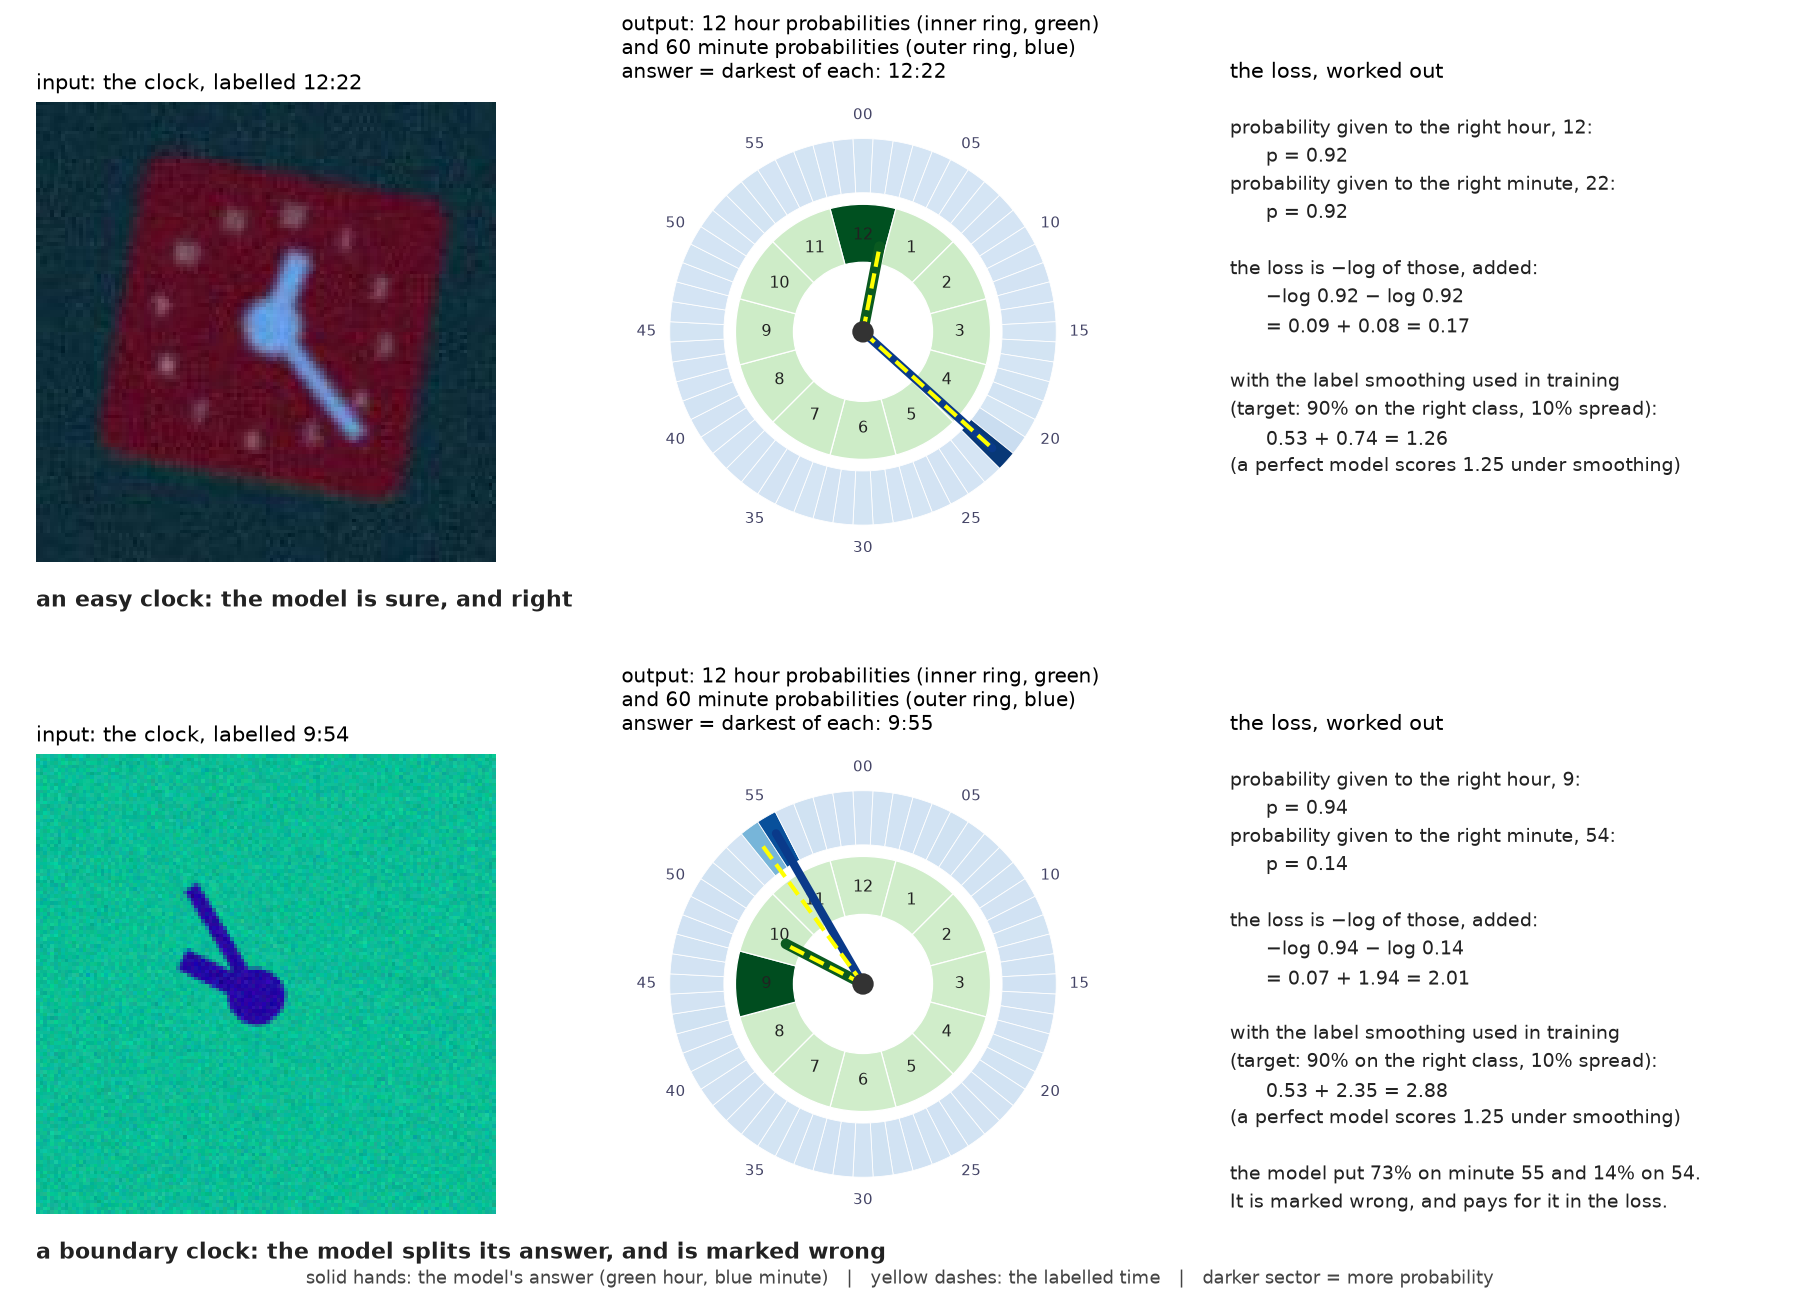
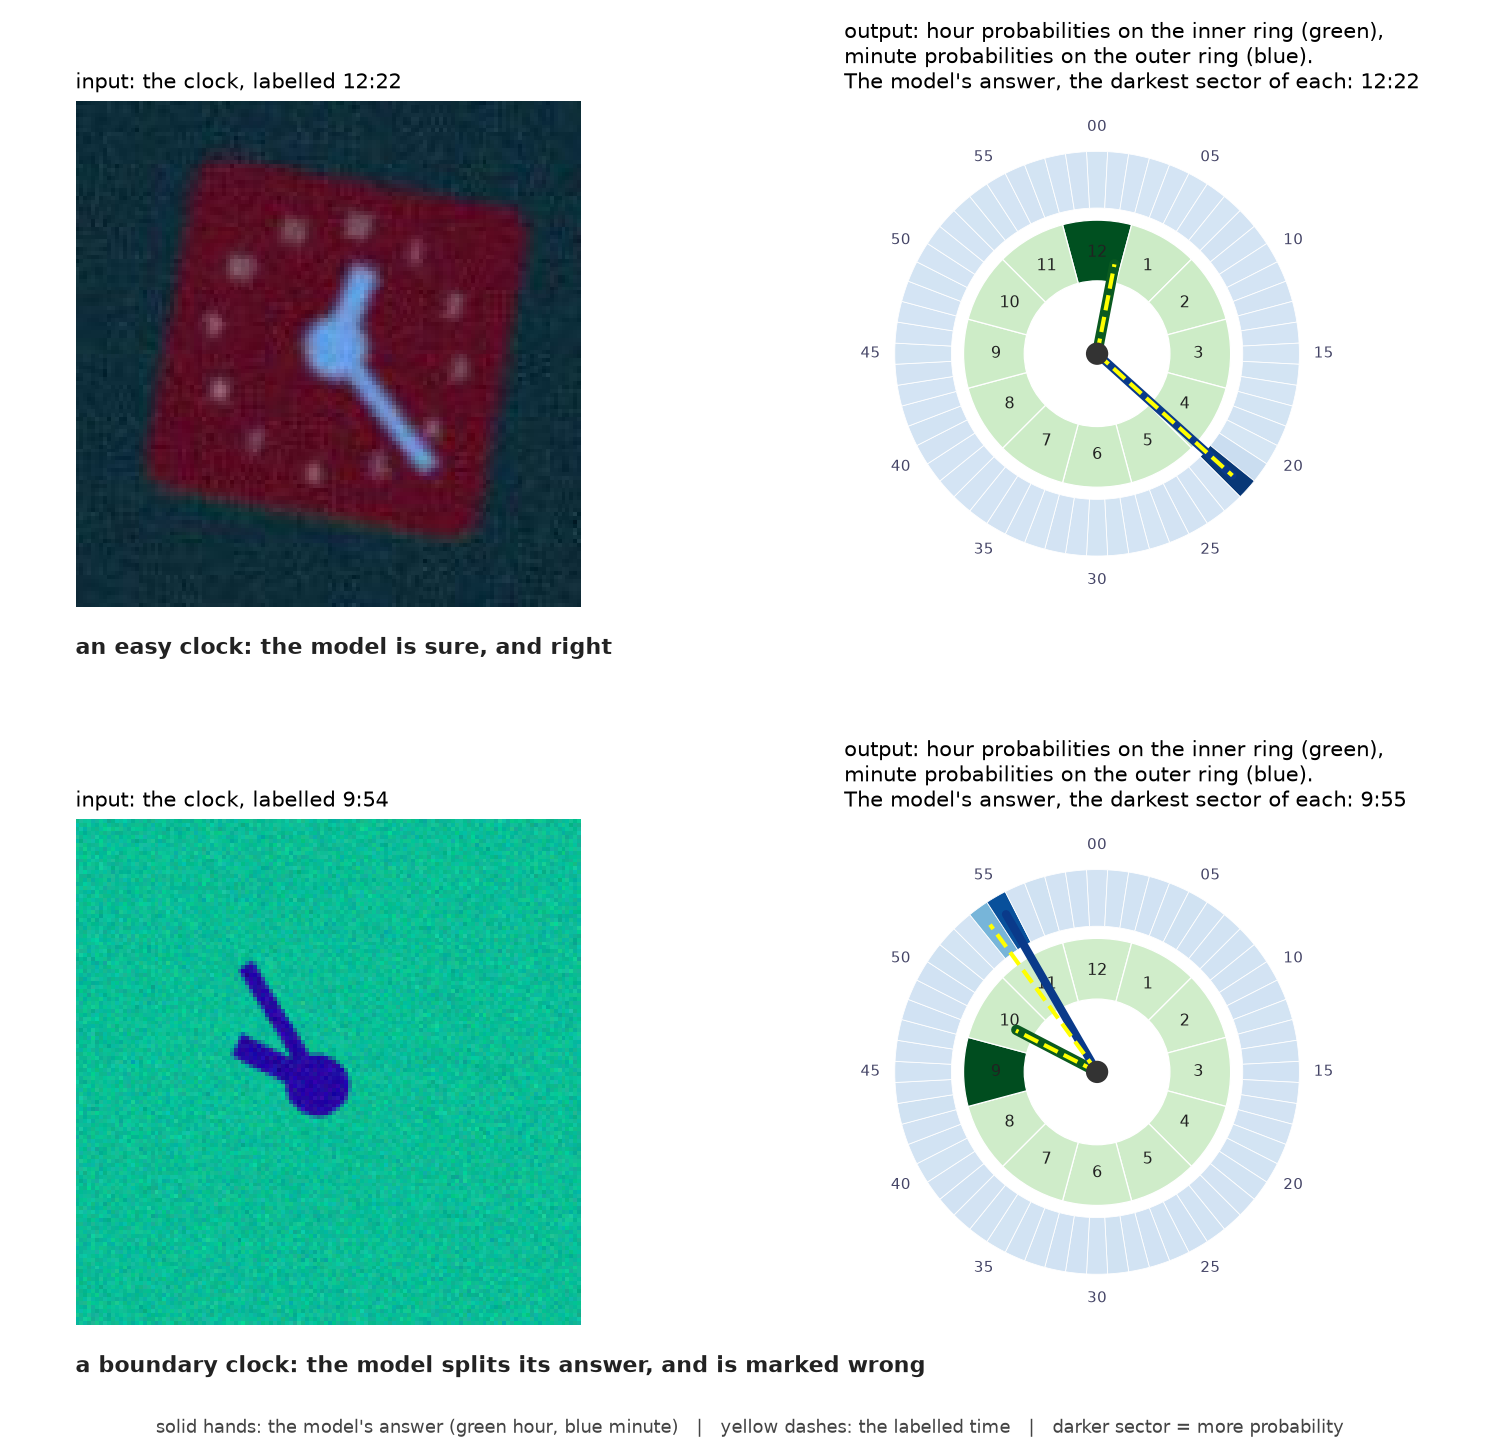
Part 2: bar-chart outputs, dial without arithmetic, toy token example in maths, renumbered

diff --git a/_posts/2026-09-15-clocks-part-2-models.md b/_posts/2026-09-15-clocks-part-2-models.md
@@ -65,16 +65,16 @@ Here is what that means as literal numbers, for one held-out clock. The
 image is stored as three grids of 128 by 128 values, one for red, one for
 green, one for blue, and a row of the actual values is printed under them.
 Those 49,152 numbers are what the model receives. What it returns is
-printed below the model: twelve numbers and sixty numbers. Its answer is
-the largest of each list (Figure 2.2).
+charted below the model: twelve numbers as twelve bars, sixty numbers as
+sixty bars. Its answer is the tallest bar of each chart (Figure 2.2).
 
 ![The input as a clock and its three colour channels, the model, and the output as the twelve and sixty numbers it returns](/assets/clocks/io_numbers.png){: .no-invert}
 
-**Figure 2.2.** The input as a clock and its three colour channels, the model, and the output as the twelve and sixty numbers it returns.
+**Figure 2.2.** The input as a clock and its three colour channels, the model, and its two outputs as bar charts: twelve hour probabilities and sixty minute probabilities. Dark blue is the model's minute, amber the labelled one.
 {: .figcap}
 
-The model put 0.94 on hour 9, and on the minute list 0.73 on 55 and 0.14
-on 54. Its answer is 9:55. The label, the yellow cell, is 9:54. So this
+The model put 0.94 on hour 9, and on the minute chart 0.73 on 55 and 0.14
+on 54. Its answer is 9:55. The label, the amber bar, is 9:54. So this
 clock counts as a miss, by one minute. Hold on to this example; the next
 figure draws the same two lists on a dial, and the section after works out
 what the loss charges for it.
@@ -84,21 +84,17 @@ Below, for an easy clock and then for the clock above, the inner ring is
 the hour list, one sector per hour, shaded darker the more probability the
 model put there. The outer ring is the minute
 list, one sector per minute. The model's answer is drawn as solid hands,
-the labelled time as yellow dashes, and the loss is worked out on the
-right from two numbers: how much probability the model gave the right
-hour, and how much it gave the right minute (Figure 2.3).
+the labelled time as yellow dashes (Figure 2.3).
 
 ![Two clocks through the trained ViT: the input, its output drawn as a probability dial, and the loss worked out](/assets/clocks/objective_dial.png){: .no-invert}
 
-**Figure 2.3.** Two clocks through the trained ViT: the input, its output drawn as a probability dial, and the loss worked out.
+**Figure 2.3.** Two clocks through the trained ViT: the input, and its output drawn as a probability dial. Inner ring: the twelve hour probabilities. Outer ring: the sixty minute probabilities. Solid hands: the model's answer. Yellow dashes: the label.
 {: .figcap}
 
 The top clock is the easy case. One dark green sector at 12, one dark blue
 sector at 22, hands on top of the dashes. The model gave 92% to the right
-hour and 92% to the right minute, so the loss is small: −log 0.92 twice,
-0.17 in total; 1.26 with the label smoothing used in training, whose floor
-is 1.25 (the loss section explains the smoothing). That is what a solved
-clock looks like.
+hour and 92% to the right minute. That is what a solved clock looks like,
+and the loss section works out what it scores.
 
 The bottom clock is the boundary case that Part 3 is about. The hour ring
 is as certain as before. But the minute ring has two shaded sectors: a
@@ -106,14 +102,12 @@ dark one at 55 and a lighter one at 54. The model put 73% on 55 and 14%
 on 54, and the label says 54. Look at the input: the minute hand is
 between the two marks, nearer 55. The model isn't confused about the
 clock. It is reporting, in probabilities, exactly where the hand is. It's
-marked wrong all the same, and the loss says so: −log 0.14 is 1.94 on the
-minute head alone, and the total is 2.88 with smoothing, more than twice
-the floor.
+marked wrong all the same, and the loss section shows what that costs.
 
-That is what "the loss" means for the rest of this post: for each image,
-how far the model's two probability lists are from the target lists, added
-up. Training is the process of nudging the encoder's weights so that
-number, averaged over the batch, goes down.
+The loss, which comes next, is a single number that says how far those
+two probability lists are from the labelled answer. Training is the
+process of nudging the encoder's weights so that number, averaged over the
+batch, goes down.
 
 ## The two families
 
@@ -222,23 +216,35 @@ $$x_i$$:
 
 $$z_i = E\,x_i + \mathrm{pos}_i, \qquad E \in \mathbb{R}^{192 \times 192}.$$
 
-What does step 3 actually compute? Here it is drawn out, with the real
-numbers from the trained vit_tiny for the minute-hand patch above (Figure 2.6):
+What does step 3 actually compute? Shrink it to a toy you can check by
+hand: a patch of four grey pixels instead of 192 colour values, and a
+token of three numbers instead of 192. The pixel values, scaled to
+$$[-1, 1]$$, are
 
-![The token calculation drawn as a matrix-vector product: the 192 × 192 learned matrix E with its first row highlighted, the 192 pixel values, the 192 offsets, and the resulting token](/assets/clocks/token_calc.png){: .no-invert}
+$$x = \begin{pmatrix} 0.9 \\ 0.8 \\ -0.7 \\ -0.9 \end{pmatrix}
+\quad\text{(top-left, top-right, bottom-left, bottom-right: light, light, dark, dark).}$$
 
-**Figure 2.6.** The token calculation drawn as a matrix-vector product: the 192 × 192 learned matrix E with its first row highlighted, the 192 pixel values, the 192 offsets, and the resulting token.
-{: .figcap}
+The tokeniser is a matrix with one row per output number and one column
+per input number, plus an offset per output. Suppose training had left it
+at
 
-Read it left to right. The big square is the matrix $$E$$: 192 rows, 192
-columns, 36,864 numbers that were random before training and were nudged
-into place by it. The pink column is the patch's 192 pixel values (the
-first eight are all +1.00 because that corner of the patch is saturated
-red). To get the first entry of the token, take the first row of the
-matrix, multiply it element by element with the pixel column, add up the
-192 products, and add the first offset. Here that gives −0.16, the
-highlighted cell in the blue column. Do the same with row 2 to get the
-second entry, and so on down all 192 rows. The blue column is the token.
+$$E = \begin{pmatrix} 0.5 & 0.5 & 0.5 & 0.5 \\ 1 & 1 & -1 & -1 \\ 1 & -1 & 1 & -1 \end{pmatrix}, \qquad
+b = \begin{pmatrix} 0 \\ 0 \\ 0 \end{pmatrix}.$$
+
+Then each output is one row times the pixels, added up:
+
+$$z = Ex + b = \begin{pmatrix} 0.5(0.9) + 0.5(0.8) + 0.5(-0.7) + 0.5(-0.9) \\ 0.9 + 0.8 + 0.7 + 0.9 \\ 0.9 - 0.8 - 0.7 + 0.9 \end{pmatrix}
+= \begin{pmatrix} 0.05 \\ 3.3 \\ 0.3 \end{pmatrix}.$$
+
+Read the three numbers: the first is the patch's average brightness
+(about zero, half light and half dark), the second is "how much lighter is
+the top than the bottom" (large: there's a horizontal edge), the third is
+"how much lighter is the left than the right" (small: no vertical edge).
+Three numbers, and the patch is described as "mid-grey with a horizontal
+edge". That is what a token is. The real tokeniser is the same
+calculation with 192 inputs, 192 outputs and a 192 × 192 matrix that
+training filled in, so its rows are not this tidy, but every row is still
+one weighted sum over the same patch.
 
 Two patches from the same clock, worked the same way, with the first eight
 entries of each list shown:
@@ -270,8 +276,9 @@ results section shows what that costs.
 
 ## The loss: two classifications, not one, and not a regression
 
-The plumbing section showed the loss on two clocks. Here it is in
-symbols, and then the three other ways it could have been set up and why
+The loss is where the two probability charts of the first section become
+one number. Here it is in symbols, then worked out for the two clocks in
+Figure 2.3, then the three other ways it could have been set up and why
 they weren't. The encoder's summary vector $$f \in \mathbb{R}^d$$ (the
 averaged last feature map for a ResNet, the class token or the mean token
 for a ViT) goes through two linear layers, one per hand:
@@ -286,8 +293,16 @@ $$\mathcal{L} = \mathrm{CE}_\varepsilon(\ell_h, h) + \mathrm{CE}_\varepsilon(\el
 $$\mathrm{CE}_\varepsilon(\ell, y) = -\sum_{c=1}^{C} q_c \log \mathrm{softmax}(\ell)_c,
 \qquad q_c = (1-\varepsilon)\,[c = y] + \frac{\varepsilon}{C}.$$
 
-At inference each head takes its argmax. There were three other ways to set
-this up, and each was rejected for a reason worth stating.
+For the two clocks of Figure 2.3: the easy one gave 0.92 to the right
+hour and 0.92 to the right minute, so without smoothing the loss would be
+−log 0.92 − log 0.92 = 0.17; with the smoothed target it is 0.53 + 0.74 =
+1.26, against a floor of 1.25 that a perfect model can't go below. The
+boundary one gave 0.94 to the right hour but only 0.14 to the right
+minute, having put 0.73 on the next minute, so the minute term alone is
+2.35 and the total 2.88. Same clock, same model, one minute off, and the
+loss more than doubles. At inference each head takes its argmax. There
+were three other ways to set this up, and each was rejected for a reason
+worth stating.
 
 **One 720-way softmax over (hour, minute) pairs.** The most literal
 framing: every time is a class. It's strictly harder to learn. Each class
@@ -382,11 +397,11 @@ held-out fonts:
 | vit_small | 14.4M | 0.422 | 0.432 | 0.829 | 0.724 | 29 min |
 | vit_p16 | 14.5M | 0.074 | 0.075 | 0.261 | 0.139 | 7 min |
 
-Figure 2.7 shows how they got there, epoch by epoch.
+Figure 2.6 shows how they got there, epoch by epoch.
 
 ![Validation exact accuracy and training loss per epoch for all seven runs](/assets/clocks/curves.png)
 
-**Figure 2.7.** Validation exact accuracy and training loss per epoch for all seven runs.
+**Figure 2.6.** Validation exact accuracy and training loss per epoch for all seven runs.
 {: .figcap}
 
 Read the table as a person would: the ResNets get about nine clocks in
@@ -423,11 +438,11 @@ The ViT paper [[ViT]](#references) says ViTs lose to CNNs on small data
 without pre-training, because they lack the locality prior. That's true and
 it isn't specific enough. The ordering here, patch 16 far worse than patch
 8, and the bigger patch-8 model worse than the smaller one, points at the
-first layer (Figure 2.8).
+first layer (Figure 2.7).
 
 ![One clock under a 16, 8 and 4 px patch grid](/assets/clocks/patch_grids.png){: .no-invert}
 
-**Figure 2.8.** One clock under a 16, 8 and 4 px patch grid.
+**Figure 2.7.** One clock under a 16, 8 and 4 px patch grid.
 {: .figcap}
 
 The tokeniser section followed one 8 px patch to its token. Now change
@@ -438,11 +453,11 @@ about those 768 values is gone before any attention happens, and the
 matrix, applied to each patch alone, can't express "which way is the
 centre". At 4 px the hand runs through a dozen tokens, each holding a
 short piece of it, and the attention layers have a line to reassemble
-rather than a smudge to guess from (Figure 2.9).
+rather than a smudge to guess from (Figure 2.8).
 
 ![The same clock as the mean of each 4, 8 and 16 px patch](/assets/clocks/patch_means.png){: .no-invert}
 
-**Figure 2.9.** The same clock as the mean of each 4, 8 and 16 px patch.
+**Figure 2.8.** The same clock as the mean of each 4, 8 and 16 px patch.
 {: .figcap}
 
 Averaging each patch is a crude stand-in for what a linear projection keeps,
@@ -458,11 +473,11 @@ more work than it looks. A clock at 128 px is roughly a wall clock seen
 from across a room: you can tell the time, but you'd take a step closer to
 be sure of the minute. The minute-hand tip moves $$2\pi r / 60$$ per minute, which for a
 typical face at 128 px is three or four pixels (Part 1 derived it). The
-radius $$r$$ scales with the image, so the budget scales too (Figure 2.10):
+radius $$r$$ scales with the image, so the budget scales too (Figure 2.9):
 
 ![The same clock rendered at 64, 128 and 256 px](/assets/clocks/resolution.png){: .no-invert}
 
-**Figure 2.10.** The same clock rendered at 64, 128 and 256 px.
+**Figure 2.9.** The same clock rendered at 64, 128 and 256 px.
 {: .figcap}
 
 | image size | typical tip radius | pixels per minute |
@@ -537,7 +552,7 @@ that are each standard elsewhere:
 - Global average pooling over tokens instead of a class token
   [[PlainViT]](#references).
 
-As a data flow, next to the plain ViT drawn earlier (Figure 2.11):
+As a data flow, next to the plain ViT drawn earlier (Figure 2.10):
 
 ```mermaid
 flowchart TB
@@ -551,7 +566,7 @@ flowchart TB
   end
 ```
 
-**Figure 2.11.** ViT tiny v2 as a data flow: a convolutional stem to stride 4, fixed sincos positions, average pooling.
+**Figure 2.10.** ViT tiny v2 as a data flow: a convolutional stem to stride 4, fixed sincos positions, average pooling.
 {: .figcap}
 
 
@@ -577,11 +592,11 @@ two test splits, on CPU:
 | test, training fonts | 0.892 | 0.998 | 0.893 | 0.997 | 0.11 min |
 | test, held-out fonts | 0.899 | 0.998 | 0.899 | 0.998 | 0.11 min |
 
-Figure 2.12 puts every model on one chart.
+Figure 2.11 puts every model on one chart.
 
 ![Test exact accuracy against parameter count for every model](/assets/clocks/params.png)
 
-**Figure 2.12.** Test exact accuracy against parameter count for every model.
+**Figure 2.11.** Test exact accuracy against parameter count for every model.
 {: .figcap}
 
 A 3.8M-parameter ViT with a different tokeniser matches a 21M ResNet on
